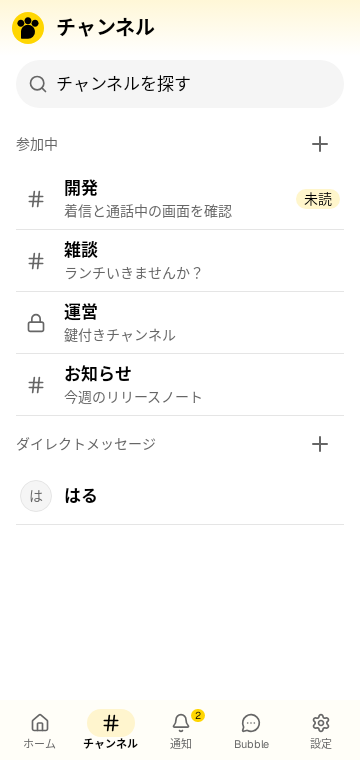
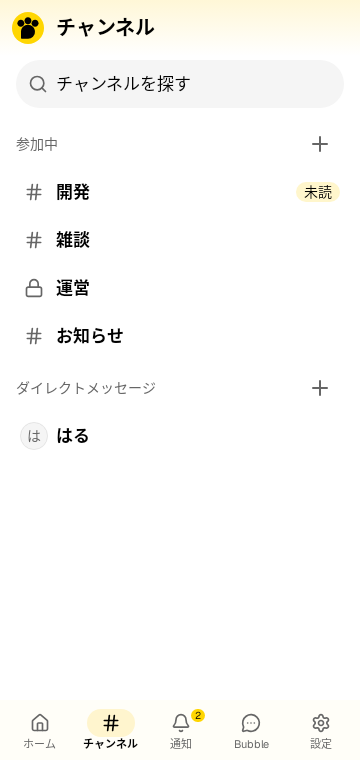
Androidのチャンネル一覧を区切り線なしの1行にする

diff --git a/frontend-compose/src/commonMain/kotlin/zoo/AndroidChannelList.kt b/frontend-compose/src/commonMain/kotlin/zoo/AndroidChannelList.kt
@@ -7,7 +7,6 @@ import androidx.compose.foundation.lazy.LazyColumn
 import androidx.compose.foundation.lazy.items
 import androidx.compose.foundation.shape.CircleShape
 import androidx.compose.foundation.shape.RoundedCornerShape
-import androidx.compose.material3.HorizontalDivider
 import androidx.compose.material3.MaterialTheme
 import androidx.compose.runtime.Composable
 import androidx.compose.ui.Alignment
@@ -15,12 +14,12 @@ import androidx.compose.ui.Modifier
 import androidx.compose.ui.semantics.Role
 import androidx.compose.ui.semantics.contentDescription
 import androidx.compose.ui.semantics.semantics
+import androidx.compose.ui.text.font.FontWeight
 import androidx.compose.ui.unit.dp
 
 internal data class AndroidChannelEntry(
     val id: String,
     val title: String,
-    val subtitle: String,
     val icon: String,
     val unreadLabel: String? = null,
     val archivedLabel: String? = null,
@@ -105,25 +104,21 @@ private fun ChannelListSection(title: String, action: String, onAction: () -> Un
 private fun AndroidChannelListRow(entry: AndroidChannelEntry, open: (AndroidChannelEntry) -> Unit) {
     val colors = MaterialTheme.colorScheme
     Row(
-        Modifier.fillMaxWidth().heightIn(min = 56.dp)
+        Modifier.fillMaxWidth().heightIn(min = AndroidDesign.touchTarget)
             .clickable(role = Role.Button) { open(entry) }
             .semantics { contentDescription = entry.title }
-            .padding(horizontal = AndroidDesign.spaceSmall, vertical = AndroidDesign.spaceMedium),
+            .padding(horizontal = AndroidDesign.spaceSmall, vertical = AndroidDesign.spaceSmall),
         verticalAlignment = Alignment.CenterVertically,
-        horizontalArrangement = Arrangement.spacedBy(AndroidDesign.spaceLarge),
+        horizontalArrangement = Arrangement.spacedBy(AndroidDesign.spaceMedium),
     ) {
-        Box(Modifier.size(32.dp), contentAlignment = Alignment.Center) {
-            if (entry.avatar != null) Avatar(entry.avatar, size = 32.dp)
+        Box(Modifier.size(28.dp), contentAlignment = Alignment.Center) {
+            if (entry.avatar != null) Avatar(entry.avatar, size = 28.dp)
             else Icon(entry.icon, modifier = Modifier.size(20.dp))
         }
-        Column(Modifier.weight(1f)) {
-            Text(entry.title, weight = androidx.compose.ui.text.font.FontWeight.SemiBold, maxLines = 1)
-            if (entry.subtitle.isNotBlank()) Text(entry.subtitle, small = true, muted = true, maxLines = 1)
-        }
+        Text(entry.title, Modifier.weight(1f), weight = FontWeight.SemiBold, maxLines = 1)
         (entry.unreadLabel ?: entry.archivedLabel)?.let {
             Text(it, Modifier.background(colors.secondaryContainer, CircleShape)
                 .padding(horizontal = AndroidDesign.spaceMedium), small = true, color = colors.onSecondaryContainer)
         }
     }
-    HorizontalDivider(color = colors.outlineVariant)
 }

diff --git a/frontend-compose/src/androidUnitTest/kotlin/zoo/ReviewRegressionUiTest.kt b/frontend-compose/src/androidUnitTest/kotlin/zoo/ReviewRegressionUiTest.kt
@@ -581,7 +581,7 @@ class ReviewRegressionUiTest {
     }
 
     @Test
-    fun androidChannelListRendersSearchJoinedAndDmWithoutAccordion() {
+    fun androidChannelListShowsCompactSingleLineRowsWithoutDescriptions() {
         val fixture = Fixture(labels = mapOf(
             "channels.title" to "チャンネル", "channels.browseTitle" to "チャンネルを探す",
             "channels.createTitle" to "チャンネルを作成", "members.joined" to "参加中",
@@ -613,7 +613,11 @@ class ReviewRegressionUiTest {
                 }
             }
             ui.onNodeWithText("チャンネルを探す").assertIsDisplayed()
-            ui.onNodeWithText("着信と通話中の画面を確認").assertIsDisplayed()
+            ui.onNodeWithText("着信と通話中の画面を確認").assertDoesNotExist()
+            ui.onNodeWithText("ランチいきませんか？").assertDoesNotExist()
+            ui.onNodeWithContentDescription("開発").assertHeightIsEqualTo(AndroidDesign.touchTarget)
+            ui.onNodeWithContentDescription("雑談").assertHeightIsEqualTo(AndroidDesign.touchTarget)
+            ui.onNodeWithText("未読").assertIsDisplayed()
             ui.onNodeWithContentDescription("はる").assertIsDisplayed()
             captureAndroidUi(ui, { ui.activity }, "channel-index", "android-channel-index")
             ui.onNodeWithText("チャンネルを探す").performClick()

diff --git a/frontend-compose/src/commonMain/kotlin/zoo/App.kt b/frontend-compose/src/commonMain/kotlin/zoo/App.kt
@@ -419,10 +419,8 @@ internal fun Sidebar(
             val id = channel.text("id")
             val dm = channel.flag("is_dm")
             val name = if (dm) dmTitle(app, channel, users, memberships) else channel.text("channel_name")
-            val last = app.repo.cachedMessages(id).lastOrNull { !it.present("deleted_at") && it["ciphertext"].let { value -> value == null || value == JsonNull } }
-            val description = if (channel.flag("encrypted")) "" else last?.text("content").orEmpty()
             return AndroidChannelEntry(
-                id, name, description.ifBlank { channel.text("description").trim() },
+                id, name,
                 if (dm) "message-circle" else if (channel.flag("is_private")) "lock" else "hash",
                 unreadLabel = app.t("channels.unread").takeIf { id in app.unread },
                 archivedLabel = app.t("moderation.archived").takeIf { channel.present("archive_at") },

diff --git a/docs/android-design-samples.md b/docs/android-design-samples.md
@@ -9,12 +9,14 @@
 | 画面 | Compose 実キャプチャ | 見る箇所 |
 | --- | --- | --- |
 | ホーム | [タイムライン](images/android-design/home.png) | 枠を減らした投稿、無彩色の本文面、投稿アイコン |
-| チャンネル | [一覧](images/android-design/channels.png) | 検索、参加中、DM、選択中のタブ |
+| チャンネル | [一覧](images/android-design/channels.png) | 検索、参加中、DM。行は名前を1行で表示し、説明文と区切り線を省く。 |
 | 通知 | [通知一覧](images/android-design/notifications.png) | 送信者、通知元、抜粋、未読表示 |
 | Bubble・設定 | [Bubble](images/android-design/bubble.png)・[設定トップ](images/android-design/settings.png) | 5タブから直接開けるトップ |
 | 投稿詳細・会話・スレッド | [会話](images/android-design/channel-editor-idle.png)・[スレッド](images/android-design/thread.png) | 子画面ではタブを隠し、入力操作は下に置く |
 
-[Bubble・設定のモック](images/android-design/reference/bubble-settings.png) · [投稿詳細・会話・スレッドのモック](images/android-design/reference/detail.png) · [チャンネル一覧とスレッドの比較](images/android-design/agreed-comparison.png)
+[Bubble・設定のモック](images/android-design/reference/bubble-settings.png) · [投稿詳細・会話・スレッドのモック](images/android-design/reference/detail.png) · [初回のチャンネル一覧とスレッドの比較](images/android-design/agreed-comparison.png)
+
+チャンネル一覧の現在のデザインは上表の実キャプチャを参照する。トップのモックと初回比較には2行だった頃の一覧が含まれる。
 
 ## チャンネルヘッダーと入力欄
 

diff --git a/docs/android-design.md b/docs/android-design.md
@@ -22,7 +22,7 @@ Androidの見た目を変更するときの基準。数値の定義元は
 | --- | --- |
 | ホーム | タブの下に枠なしのタイムライン。本文サイズを保ち、投稿を罫線で区切る。鉛筆アイコンで投稿を開く。 |
 | ホーム投稿 | 本文と添付のプレビューを同じ下書きに置く。下から最近の写真を出し、OSの写真ピッカーへの入口も提供する。 |
-| チャンネル一覧 | 上部の検索入口、参加中の一覧、DMの順。各行は名前と一行の補助情報、必要な未読表示で構成する。 |
+| チャンネル一覧 | 上部の検索入口、参加中の一覧、DMの順。チャンネルとDMは名前を1行で表示し、必要な未読表示を添える。説明文と行間の区切り線を省き、通常の行高は48dpにそろえる。 |
 | 会話・スレッド | 上部のチャンネル名から設定を開く。会話には下部タブを出さず、入力欄を画面端に配置する。スレッドを閉じたときは元の位置へ戻る。 |
 | 通知 | 送信者、通知の種類、会話名を読み順に置く。利用できる返信元や画像を補助情報として出す。未読ラベルを使う。 |
 | Bubble | 入力中の内容が共有されることを伝え、入力欄を下に配置する。 |
